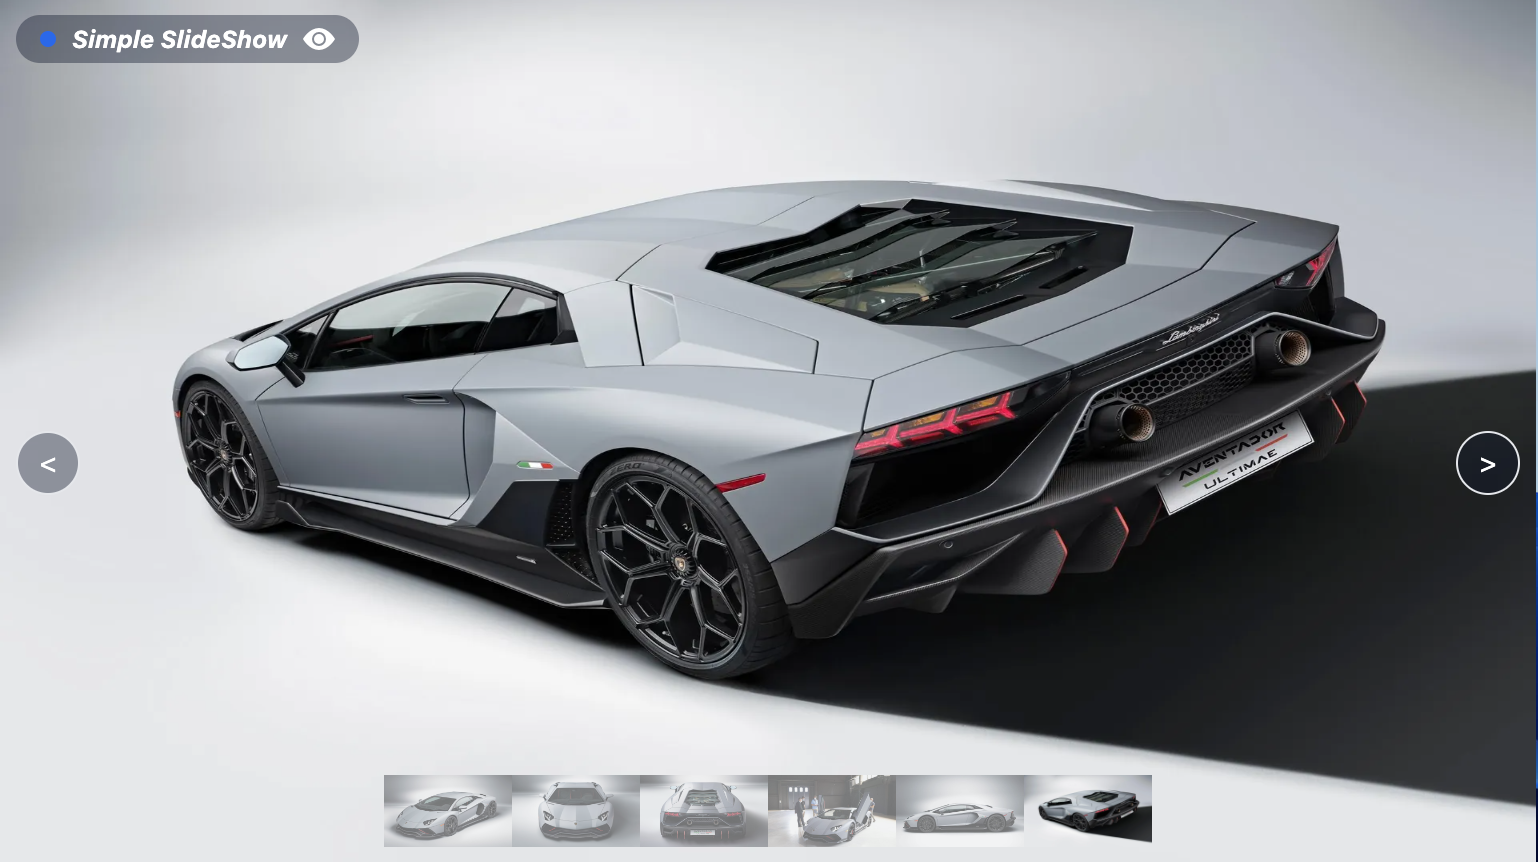
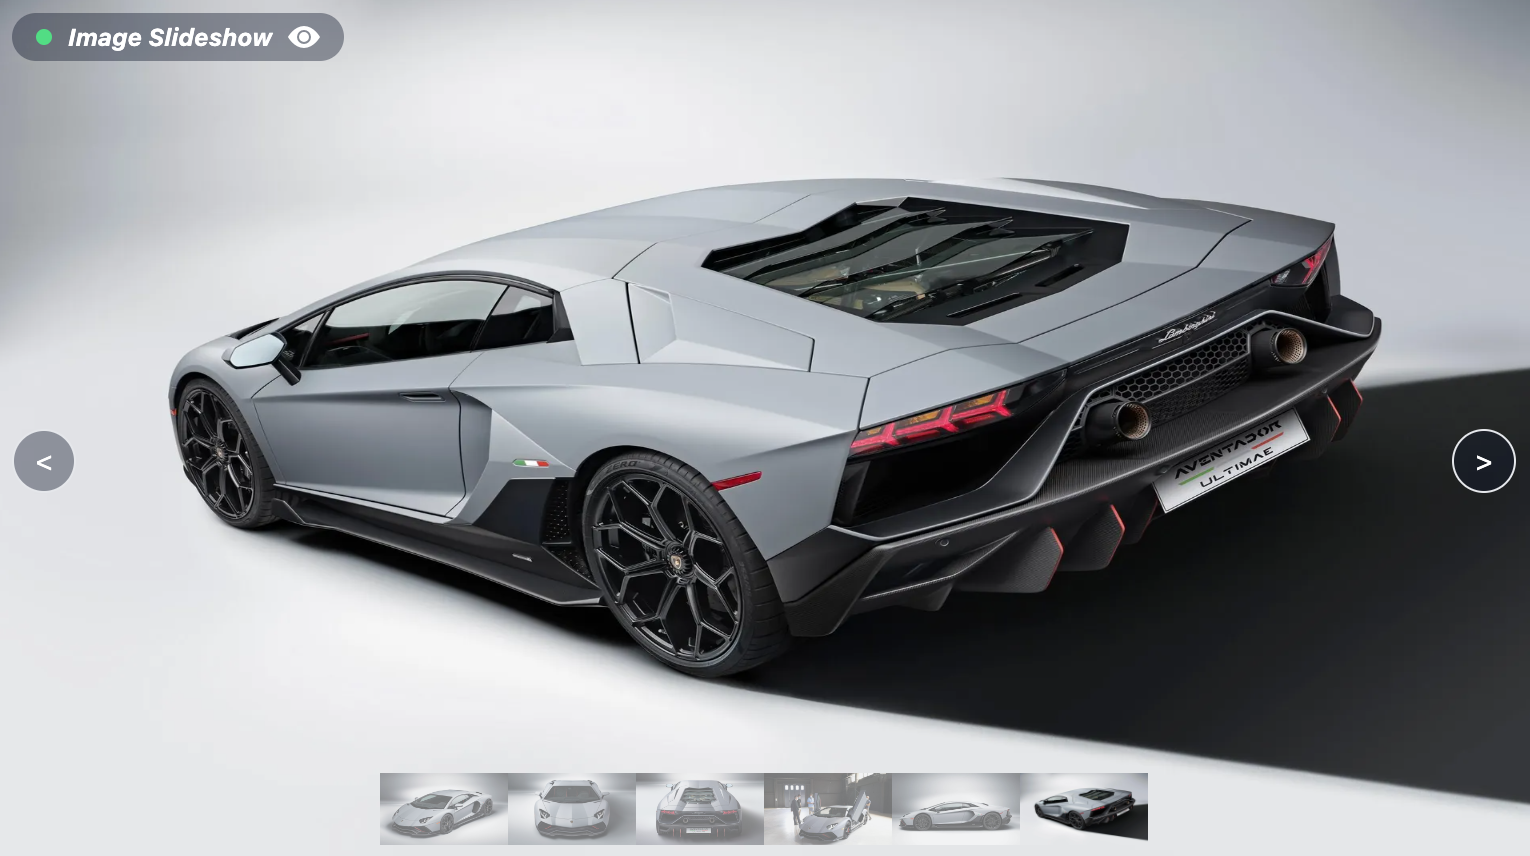
itialized carousel 4

diff --git a/src/pages/4-stacked-gallery/components/Stackedgallery.tsx b/src/pages/4-stacked-gallery/components/Stackedgallery.tsx
@@ -1,23 +1,18 @@
-import { useEffect, useRef, useState } from "react";
-import slideShowPhotos from "../assets";
+import { useEffect, useState } from "react";
+import sliseShowPhotos from "../../3-photo-slideshow/assets";
 
 type Props = {
   interval?: number;
   id?: string;
 };
 
-function Photoslideshow(props: Props) {
+function Stackedgallery(props: Props) {
   const { interval = 3, id = "addId" } = props;
 
   //   local state .....
-  const [index, setIndex] = useState(slideShowPhotos.length - 1);
-  const [showThumbs, setShowThumbs] = useState(true);
-  const [play, setplay] = useState(true);
-  const [inView, setInView] = useState(false);
+  const [index, setIndex] = useState(sliseShowPhotos.length - 1);
 
-  const observer = useRef<null | IntersectionObserver>(null);
-
-  // helper funcs
+  //   helper funcs
   const getElements = (dataname: string = "photo-slideshow") => {
     const el: HTMLDivElement[] = [
       ...document.querySelectorAll(`[data-name="${dataname + id}"]`),
@@ -29,12 +24,12 @@ function Photoslideshow(props: Props) {
     let idx: number;
     if (typeof nextIndex === "number") {
       idx =
-        nextIndex < 0 || nextIndex > slideShowPhotos.length - 1 ? 0 : nextIndex;
+        nextIndex < 0 || nextIndex > sliseShowPhotos.length - 1 ? 0 : nextIndex;
     } else {
       if (forward) {
-        idx = index + 1 <= slideShowPhotos.length - 1 ? index + 1 : 0;
+        idx = index + 1 <= sliseShowPhotos.length - 1 ? index + 1 : 0;
       } else {
-        idx = index - 1 >= 0 ? index - 1 : slideShowPhotos.length - 1;
+        idx = index - 1 >= 0 ? index - 1 : sliseShowPhotos.length - 1;
       }
     }
     return idx;
@@ -45,6 +40,15 @@ function Photoslideshow(props: Props) {
     const animationClasses = ["slitVertical", "slitHorizontal", "slitDiagonal"];
     return animationClasses[Math.floor(Math.random() * 3)];
   }
+
+  // auto play effect...
+  useEffect(() => {
+    const intervalID = setInterval(() => {
+      //   stack(true);
+    }, interval * 1000);
+
+    return () => clearInterval(intervalID);
+  }, [interval, index]);
 
   // photo stacker (re-stacks the image)
   function stack(forward: boolean, nxtIndex?: number) {
@@ -71,43 +75,17 @@ function Photoslideshow(props: Props) {
     }, 350);
   }
 
-  // effect sets up an observer instance
-  useEffect(() => {
-    const options = {
-      threshold: 1.0,
-    };
+  function getWidth(index: number, totalItems: number, minwidth = 70) {
+    let remainingWidth = 100 - minwidth;
+    let increment = remainingWidth / totalItems;
+    let width = 100 - index * increment;
 
-    observer.current = new IntersectionObserver(([entry]) => {
-      setInView(entry.isIntersecting);
-    }, options);
+    console.log({ width, totalItems });
 
-    observer.current.observe(getElements("parent")[0]);
+    return width;
+  }
 
-    return () => observer.current?.disconnect();
-  }, []);
-
-  //   effect scrolls current thumbnail into view
-  useEffect(() => {
-    if (!inView) return;
-    const currentThumbnail = getElements("photo-slideshow-thumbnail")[index];
-
-    currentThumbnail.scrollIntoView({
-      behavior: "smooth",
-      inline: "center",
-      block: "center",
-    });
-  }, [index]);
-
-  // auto play effect...
-  useEffect(() => {
-    if (!play) return;
-
-    const intervalID = setInterval(() => {
-      stack(true);
-    }, interval * 1000);
-
-    return () => clearInterval(intervalID);
-  }, [play, interval, index]);
+  getWidth(1, 5);
 
   return (
     <div data-name={`parent${id}`} className="relative aspect-video text-white">
@@ -121,7 +99,7 @@ function Photoslideshow(props: Props) {
       </h2>
 
       {/* image wrapper */}
-      {slideShowPhotos.map((img, i) => {
+      {sliseShowPhotos.map((img, i) => {
         return (
           <div
             data-name={`photo-slideshow${id}`}
@@ -140,14 +118,14 @@ function Photoslideshow(props: Props) {
       {/* thumbnails wrapper */}
       <div
         className={`absolute z-40 right-0 top-0 bottom-0 transition-all ${
-          showThumbs ? "w-[200px]" : "w-[0%]"
+          true ? "w-[200px]" : "w-[0%]"
         }`}
       >
         {/* open/close thumbnail panel button */}
         <button
-          onClick={() => setShowThumbs(!showThumbs)}
+          //   onClick={() => setShowThumbs(!showThumbs)}
           className={`absolute top-0 right-[100%] flex items-center justify-center h-9 w-6 bg-slate-900 font-light text-white/70 ${
-            showThumbs ? "rotate-[0deg]" : "rotate-[180deg]"
+            true ? "rotate-[0deg]" : "rotate-[180deg]"
           }`}
         >
           {">"}
@@ -155,7 +133,7 @@ function Photoslideshow(props: Props) {
 
         {/* thumbnail imgs wrap */}
         <div className="grid grid-cols-2 place-content-start gap-1 bg-black/80 overflow-y-auto h-full">
-          {slideShowPhotos.map((_, i) => {
+          {sliseShowPhotos.map((_, i) => {
             return (
               <div
                 onClick={() => stack(true, i)}
@@ -176,14 +154,14 @@ function Photoslideshow(props: Props) {
 
       {/*pause/play slideshow button */}
       <button
-        title={play ? "pause slideshow" : "play slideshow"}
+        title={true ? "pause slideshow" : "play slideshow"}
         className="absolute z-30 left-2 bottom-1 bg-slate-900/40 order rounded-full h-10 w-10 text-xl"
-        onClick={() => setplay(!play)}
+        // onClick={() => setplay(!play)}
       >
-        {play ? "⏸" : "▶"}
+        {true ? "⏸" : "▶"}
       </button>
     </div>
   );
 }
 
-export default Photoslideshow;
+export default Stackedgallery;

diff --git a/src/pages/home/asset/index.ts b/src/pages/home/asset/index.ts
@@ -32,46 +32,21 @@ const carouselList: Carousel[] = [
     youtubeUrl: "https://studio.youtube.com/video/glVNyeqNI5I/comments",
   },
   {
-    img: await getImage(2),
+    img: await getImage(3),
     complexity: "Intermediate",
     title: "Photo Slideshow",
     url: "/3-photo-slideshow",
-    desc: "A photo slideshow with slit animation that works by placing the next image on top of the stack",
+    desc: "A photo slideshow with random slit animation that works by placing the next image on top of the stack",
     youtubeUrl: "https://studio.youtube.com/video/glVNyeqNI5I/comments",
   },
-
-  // {
-  //   img: await getImage(3),
-  //   title: "",
-  //   url: "",
-  //   desc: "",
-  //   youtubeUrl: "",
-  //   complexity: "Easy",
-  // },
-  // {
-  //   img: await getImage(4),
-  //   title: "",
-  //   url: "",
-  //   desc: "",
-  //   youtubeUrl: "",
-  //   complexity: "Easy",
-  // },
-  // {
-  //   img: await getImage(5),
-  //   title: "",
-  //   url: "",
-  //   desc: "",
-  //   youtubeUrl: "",
-  //   complexity: "Easy",
-  // },
-  // {
-  //   img: await getImage(6),
-  //   title: "",
-  //   url: "",
-  //   desc: "",
-  //   youtubeUrl: "",
-  //   complexity: "Easy",
-  // },
+  {
+    img: await getImage(3),
+    complexity: "Easy",
+    title: "Photo Slideshow",
+    url: "/4-stacked-gallery",
+    desc: "A photo slideshow with random slit animation that works by placing the next image on top of the stack",
+    youtubeUrl: "https://studio.youtube.com/video/glVNyeqNI5I/comments",
+  },
 
   {
     img: await getImage(1),

diff --git a/src/pages/2-photo-slider/components/PhotoSlide.tsx b/src/pages/2-photo-slider/components/PhotoSlide.tsx
@@ -15,10 +15,10 @@ function PhotoSlide(props: Props) {
 
   // helper funcs
   const getElements = () => {
-    const cars: HTMLDivElement[] = [
+    const el: HTMLDivElement[] = [
       ...document.querySelectorAll(`[data-name="photo-slide"]`),
     ] as HTMLDivElement[];
-    return cars;
+    return el;
   };
 
   const nextIndex = (forward: boolean, nextIndex?: number) => {
@@ -83,7 +83,7 @@ function PhotoSlide(props: Props) {
       {/* carousel header */}
       <h2 className="absolute top-2 left-2 z-50 flex items-center gap-2 bg-slate-900/40 px-3 py-1 text-white font-bold rounded-full">
         {/* aesthetics dot */}
-        <span className="bg-blue-400 h-2 w-2 rounded-full" />
+        <span className="bg-green-400 h-2 w-2 rounded-full" />
 
         {/* title */}
         <span className="italic text-xs">Photo Slider</span>

diff --git a/src/pages/home/components/Modal.tsx b/src/pages/home/components/Modal.tsx
@@ -43,13 +43,14 @@ function Modal(props: ModalProp) {
               {carousel.complexity}
             </span>
           </p>
+
           {/* title */}
           <h2 className="text-xl font-[Lobster] bg-slate-900/30 px-3 rounded-full">
             {carousel.title}
           </h2>
 
           {/* description */}
-          <p className="hidden xs:block max-w-[95%] sm:max-w-[90%] mx-auto text-center text-sm sm:text-base mt-5 italic font-light bg-slate-900/40 px-3 py-1 rounded-full">
+          <p className="hidden xs:block max-w-[85%] sm:max-w-[80%] mx-auto text-center text-sm sm:text-base mt-5 italic font-light bg-slate-900/40 px-3 py-1 rounded-full">
             {carousel.desc}
           </p>
         </div>

diff --git a/src/pages/home/components/CarouselsCard.tsx b/src/pages/home/components/CarouselsCard.tsx
@@ -1,7 +1,7 @@
 import { Link } from "react-router-dom";
 import { Carousel } from "../asset"; // TS type
 import youtubeLogo from "../asset/youtube-logo.png"; // Youtube logo
-import InfoIcon from "../asset/infoIcon";
+import InfoIcon from "../asset/InfoIcon";
 import EyeIcon from "../asset/EyeIcon";
 
 type Props = {
@@ -34,7 +34,7 @@ function CarouselsCard(props: Props) {
         </span>
       </a>
 
-      {/* {buttons wrapper */}
+      {/* buttons wrapper */}
       <div className="absolute left-0 right-0 bottom-[-50px] flex bg-slate-900/40 items-center text-white py-3 px-2 transition-all duration-500 ease-in-out group-hover:bottom-[0%]">
         {/* modal (info button) */}
         <button

diff --git a/src/main.tsx b/src/main.tsx
@@ -8,6 +8,7 @@ import Home from "./pages/home/index.tsx";
 import ImageSlideShow from "./pages/1-image-slideshow";
 import PhotoSlider from "./pages/2-photo-slider";
 import PhotoSlideShow from "./pages/3-photo-slideshow";
+import StackedGallery from "./pages/4-stacked-gallery";
 
 // root
 import Layout from "./layout.tsx";
@@ -29,6 +30,10 @@ const router = createBrowserRouter([
   {
     path: "/3-photo-slideshow",
     element: <PhotoSlideShow />,
+  },
+  {
+    path: "/4-stacked-gallery",
+    element: <StackedGallery />,
   },
 ]);
 

diff --git a/src/pages/1-image-slideshow/components/ImageSlide.tsx b/src/pages/1-image-slideshow/components/ImageSlide.tsx
@@ -80,7 +80,7 @@ function ImageSlide(props: Props) {
       {/* carousel header */}
       <h2 className="absolute top-2 left-2 z-50 flex items-center gap-2 bg-slate-900/40 px-3 py-1 text-white font-bold rounded-full">
         {/* aesthetics dot */}
-        <span className="bg-blue-400 h-2 w-2 rounded-full" />
+        <span className="bg-green-400 h-2 w-2 rounded-full" />
 
         {/* title */}
         <span className="italic text-xs">Image Slideshow</span>

diff --git a/src/pages/4-stacked-gallery/index.tsx b/src/pages/4-stacked-gallery/index.tsx
@@ -1,0 +1,11 @@
+import Stackedgallery from "./components/Stackedgallery";
+
+function StackedGallery() {
+  return (
+    <section className="w-full max-w-4xl mx-auto red">
+      <Stackedgallery interval={5} />
+    </section>
+  );
+}
+
+export default StackedGallery;

diff --git a/src/pages/home/index.tsx b/src/pages/home/index.tsx
@@ -18,7 +18,7 @@ function Home() {
 
   return (
     <section>
-      <h2 className="pt-5 italic text-blue-500 font-bold text-center text-xl">
+      <h2 className="pt-5 italic text-green-600 font-bold text-center text-xl">
         Carousels
       </h2>
 

diff --git a/src/pages/3-photo-slideshow/assets/index.ts b/src/pages/3-photo-slideshow/assets/index.ts
@@ -30,6 +30,6 @@ const photos = [
   },
 ];
 
-const sliseShowPhotos = [...photos, ...photos];
+const slideShowPhotos = [...photos, ...photos];
 
-export default sliseShowPhotos;
+export default slideShowPhotos;
